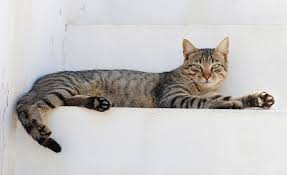
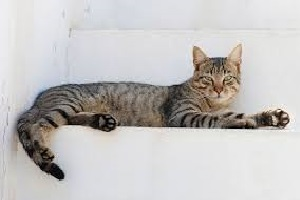
lightbox

Changed region(s): [[0.0, 0.2, 0.9756, 0.9143], [0.223, 0.1429, 0.2509, 0.1714]]

diff --git a/One-Page_Website/one_page_website.html b/One-Page_Website/one_page_website.html
@@ -3,6 +3,8 @@
 	<head lang="en">
 		<meta charset="UTF-8">
 		<title>The Best Pets</title>
+		<script src="./JS/one_page_website.js" defer></script>
+		<link rel="stylesheet" href="./CSS/one_page_website.css"/> 
 	</head>
 	<body>
 	
@@ -37,7 +39,7 @@
 				
 					<!-- PHOTO-CONTAINER 1 -->
 					<div>
-						<div>
+						<div onclick="openModal(0)">
 							<img src="./Images/Dog_1.jpg" alt="Dog">
 							<div>
 								<h3>Dogs</h3>
@@ -49,7 +51,7 @@
 					
 					<!-- PHOTO-CONTAINER 2 -->
 					<div>
-						<div>
+						<div onclick="openModal(1)">
 							<img src="./Images/Cat_1.jpg" alt="Cat">
 							<div>
 								<h3>Cats</h3>
@@ -61,7 +63,7 @@
 					
 					<!-- PHOTO-CONTAINER 3 -->
 					<div>
-						<div>
+						<div onclick="openModal(2)">
 							<img src="./Images/Hamster_1.jpg" alt="Hamster">
 							<div>
 								<h3>Hamsters</h3>
@@ -75,6 +77,42 @@
 			</div>
 		</section>
 		<!-- END GALLERY -->
+
+		<!--LIGHBOX-->
+		<div id="modal">
+			<h1>Images</h1>
+			<span class="x" onclick="closeModal()">&times;</span>
+			<div class="content">
+				<div id="bigImages">
+					<div class="bigImage">
+						<img src="./Images/Dog_1_Big.jpg" alt="Dog">
+					</div>
+
+					<div class="bigImage">
+						<img src="./Images/Cat_1_Big.jpg" alt="Dog">
+					</div>
+
+					<div class="bigImage">
+						<img src="./Images/Hamster_1_Big.jpg" alt="Dog">
+					</div>
+				</div>
+
+				<div id="slides">
+					<div class="slide" onclick="openModal(0)">
+						<img src="./Images/Dog_1.jpg" alt="Dog">
+					</div>
+
+					<div class="slide" onclick="openModal(1)">
+						<img src="./Images/Cat_1.jpg" alt="Dog">
+					</div>
+
+					<div class="slide" onclick="openModal(2)">
+						<img src="./Images/Hamster_1.jpg" alt="Dog">
+					</div>
+				</div>
+
+			</div>
+		</div>
 		
 		<!-- VIDEO -->
 		<section>

diff --git a/One-Page_Website/JS/one_page_website.js b/One-Page_Website/JS/one_page_website.js
@@ -1,0 +1,16 @@
+function openModal(n) {
+    document.getElementById("modal").style.display = "block"
+    nonDisplay();
+    bigImages[n].style.display = "block";
+}
+
+function closeModal() {
+    document.getElementById("modal").style.display = "none";
+}
+
+function nonDisplay() {
+    bigImages = document.getElementsByClassName("bigImage")
+    for(i = 0; i < bigImages.length; i++) {
+        bigImages[i].style.display = "none";
+    }
+}

diff --git a/One-Page_Website/CSS/one_page_website.css b/One-Page_Website/CSS/one_page_website.css
@@ -1,0 +1,30 @@
+.slide {
+    float: left;
+    width: 33.3%;
+  }
+
+#modal {
+  display: none;
+  position: fixed;
+  z-index: 1;
+  padding-top: 100px;
+  left: 0;
+  top: 0;
+  width: 100%;
+  height: 100%;
+  overflow: auto;
+  background-color: black;
+}
+
+.x {
+  color: red;
+  position: absolute;
+  top: 10px;
+  right: 25px;
+  font-size: 30px;
+  font-weight: bold;
+}
+
+.bigImage {
+  display: none;
+}
